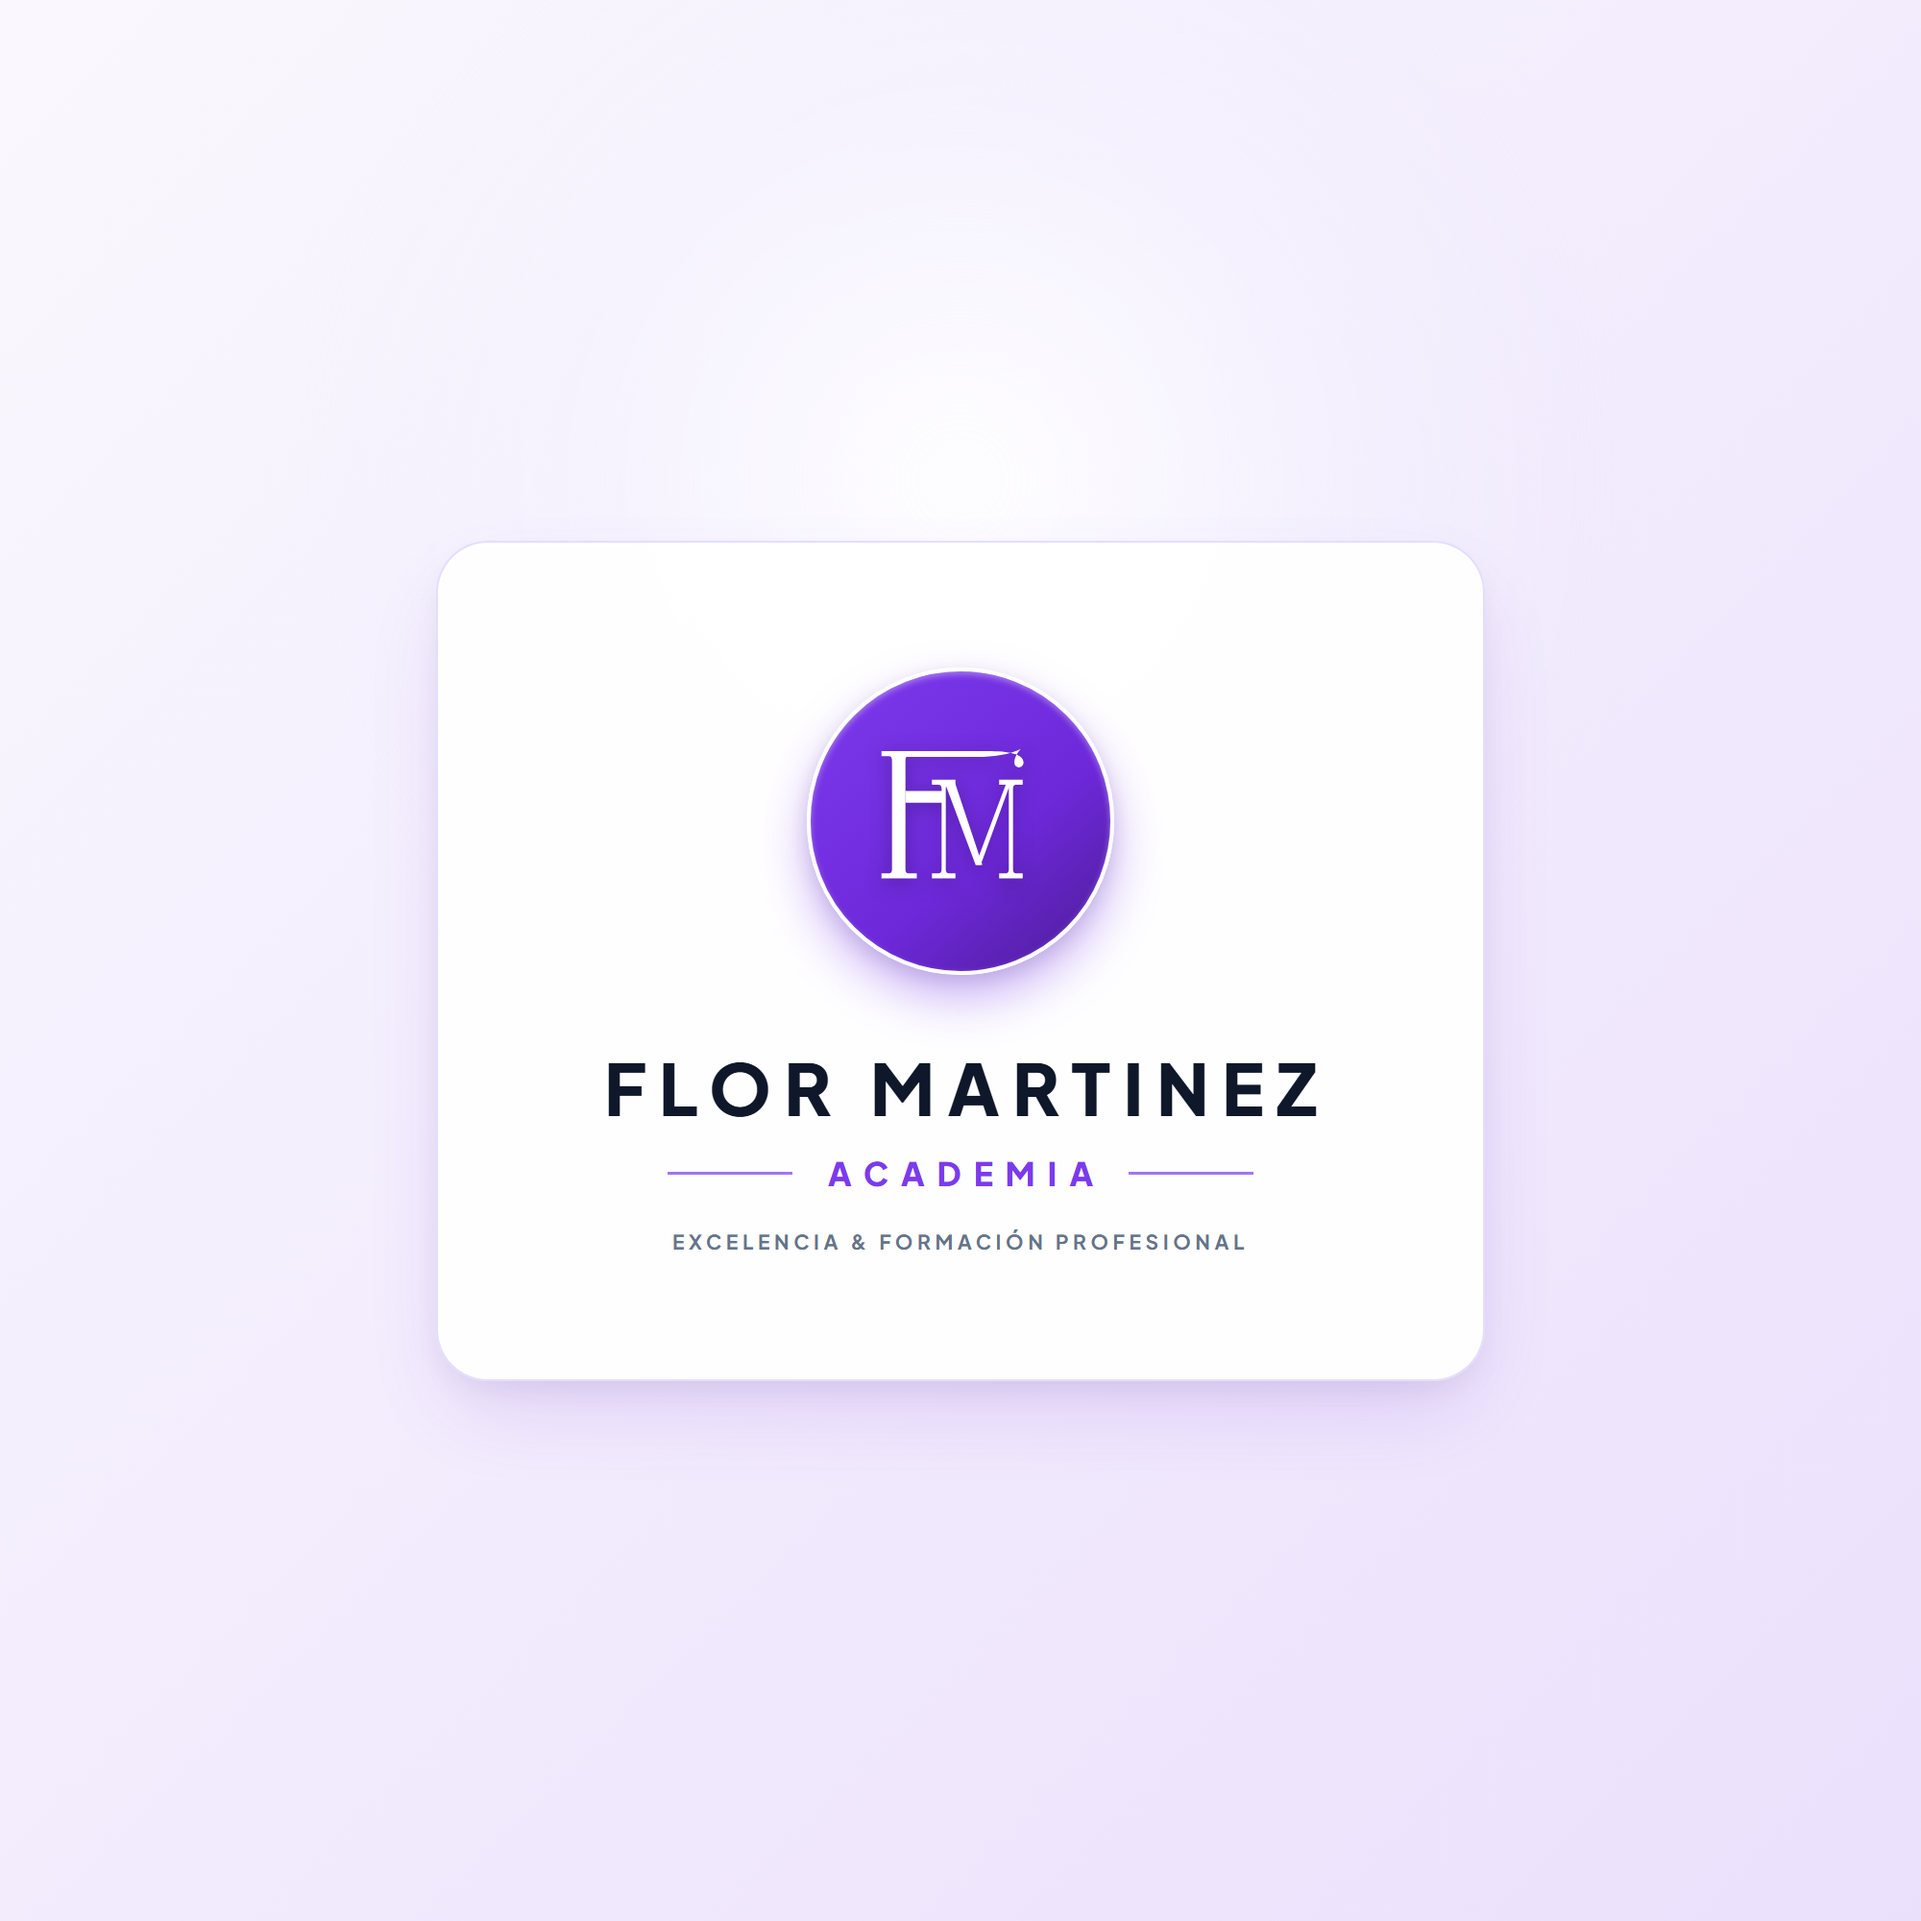
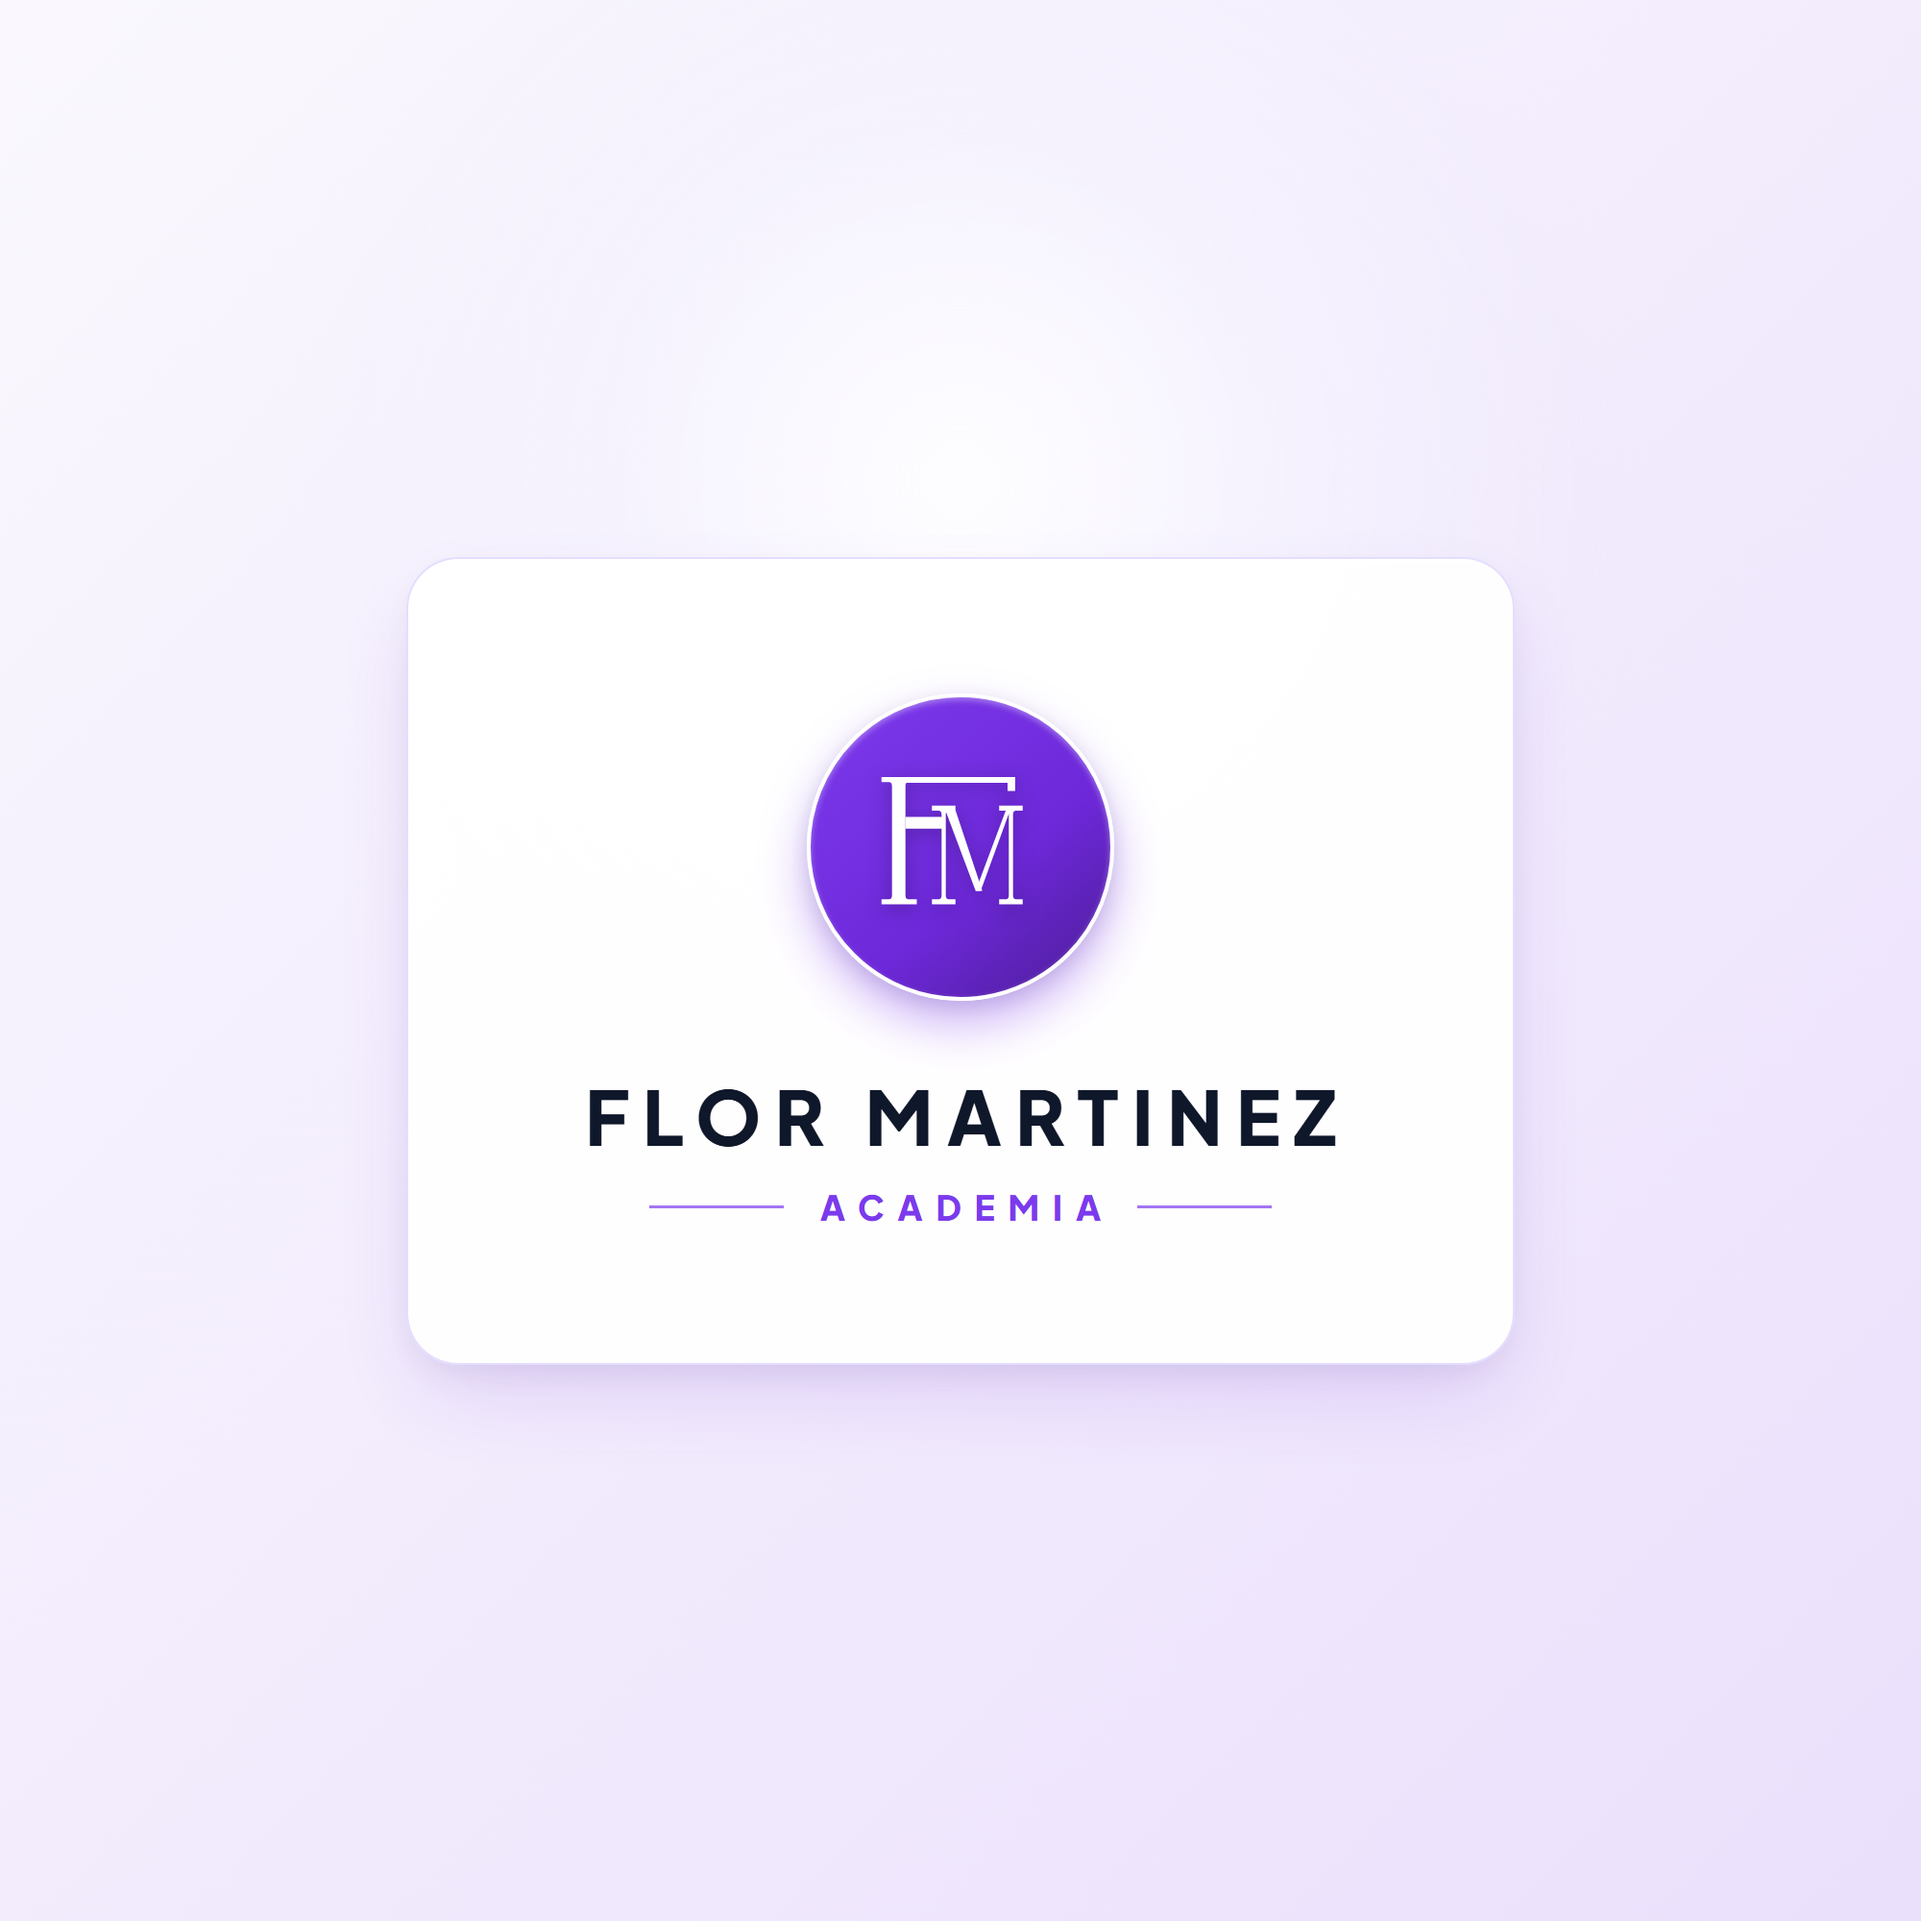
feat(campus): consolidate Module 02 Lesson 02 (ATS Filters) with approved scripts and resources

Changed region(s): [[0.31, 0.341, 0.713, 0.651], [0.217, 0.31, 0.806, 0.744]]

diff --git a/apps/academy/src/data/campus.ts b/apps/academy/src/data/campus.ts
@@ -517,6 +517,7 @@ const expBusquedaLaboralModules: CampusModule[] = [
         type: 'video',
         title: 'Cómo funcionan los filtros ATS',
         duration: '7 min',
+        videoDuration: '3:50 min',
         completed: false,
         description:
           'Cómo procesan el texto los softwares ATS, qué elementos rompen la lectura automática y cómo garantizar 100% de compatibilidad.',
@@ -524,23 +525,67 @@ const expBusquedaLaboralModules: CampusModule[] = [
           'Los ATS (Workday, Taleo, Greenhouse, Lever) extraen texto plano y ordenan candidatos según coincidencia de palabras clave.',
           'Mito: "El robot descarta automáticamente". Realidad: El sistema clasifica por relevancia y el selector humano revisa la lista ordenada.',
           'Elementos que dañan la lectura: tablas de doble columna complejas, cuadros de texto flotantes, íconos incrustados como imágenes.',
+          'Regla de oro: Maquetación en 1 sola columna vertical con encabezados estándar y exportación en PDF con texto seleccionable.',
         ],
+        actionItems: [
+          {
+            id: 'act-cv-2-1',
+            title: 'Auditar tu CV con el Checklist ATS',
+            description: 'Accedé a los Documentos de esta clase para verificar que tu archivo cumpla las pautas técnicas de lectura.',
+          },
+          {
+            id: 'act-cv-2-2',
+            title: 'Realizar la prueba de texto plano',
+            description: 'Copiá y pegá el contenido de tu PDF en un bloc de notas para confirmar que se lea en orden sin caracteres rotos.',
+          },
+        ],
+        mindsetPrompt:
+          'Un ATS no es un enemigo con IA que te descarta: es un lector de texto plano que premia la claridad, el orden y las palabras clave.',
         resources: [
           {
-            id: 'res-cv-03',
-            title: 'Checklist de Compatibilidad ATS (PDF)',
+            id: 'checklist-optimizacion-cv-ats',
+            title: 'Checklist de Compatibilidad ATS (25 Puntos)',
             type: 'pdf',
-            fileSize: '320 KB',
+            fileSize: 'Guía In-App',
             url: '#',
             programId: 'exp-busqueda-laboral',
             programTitle: 'Experiencia Búsqueda Laboral',
             moduleNumber: 2,
-            category: 'Guía PDF',
-            description: 'Lista de verificación para comprobar que tu documento no contenga elementos que bloqueen el parseo.',
+            category: 'Checklist Técnico',
+            description: 'Lista de verificación interactiva para comprobar que tu documento no contenga elementos que bloqueen el parseo.',
+            isEssential: true,
           },
         ],
         videoScript:
-          `[0:00 - Introducción]\n¿Escuchaste hablar del famoso 'robot que descarta CVs'? Hoy vamos a separar la realidad de los mitos de internet para que tu CV nunca quede atrapado en el limbo digital.\n\n[1:15 - Desarrollo del concepto]\nLas grandes empresas usan software ATS porque reciben miles de postulaciones. El sistema convierte tu PDF a texto plano y busca coincidencias con la descripción del puesto. Si diseñaste tu CV en Canva con tablas dobles, íconos de barritas para decir 'inglés 80%' o texto incrustado como imagen, el sistema no puede leerlo y te asigna un puntaje de cero. En esta clase te enseño cómo maquetar con una sola columna limpia que los ATS leen a la perfección y que a los humanos les encanta mirar.\n\n[5:45 - Llamada a la acción]\nRevisá tu CV actual con el checklist que te dejo en los recursos: si tiene tablas complejas o gráficos, es momento de limpiarlo.`,
+          `[0:00 - SECCIÓN 1: INTRODUCCIÓN Y ENGANCHE]
+🗣 ¿Escuchaste hablar del famoso 'robot que descarta CVs'? En internet hay mucho mito sobre los sistemas ATS, pero la realidad es mucho más simple: un ATS no es una inteligencia artificial que decide si servís o no; es una base de datos que convierte tu documento a texto plano y lo indexa según palabras clave. Vamos a ver exactamente cómo lee tu currículum para garantizar que nunca quede invisible en el sistema.
+🏷 Mito vs. Realidad: ¿Cómo funciona un ATS? 🤖📄
+🔊 Swoosh suave
+🏷 ATS = Base de datos de indexación por palabras clave 🔍
+🔊 Pop sutil
+🏷 Objetivo: 100% de compatibilidad y visibilidad 🎯
+🔊 Pop de confirmación
+
+[1:15 - SECCIÓN 2: DESARROLLO CONCEPTUAL — POR QUÉ FALLA EL PARSEO Y CÓMO DISEÑAR EN 1 COLUMNA]
+🗣 Para entender por qué falla un CV, imaginate qué pasa cuando el sistema extrae el contenido: lee en línea recta horizontal. Si tenés un diseño de doble columna con cajas flotantes, el texto de la barra lateral se mezcla con tu experiencia laboral y genera un bloque incomprensible.
+🏷 Lectura horizontal: De izquierda a derecha 📄➡🔡
+🔊 Swoosh suave
+🖼 Captura flotante mostrando la comparación de un CV visual de 2 columnas vs. el texto plano roto resultante.
+🗣 Lo mismo pasa cuando reemplazás palabras por gráficos, como barritas de nivel de idioma o íconos decorativos: para el sistema simplemente no existen.
+🏷 Errores fatales: Barritas de nivel & Cajas flotantes ⚠
+🔊 Pop sutil
+🗣 La solución es directa: maquetar en una sola columna vertical, usar encabezados estándar como 'Experiencia', 'Educación' y 'Habilidades', y verificar que todo tu texto sea seleccionable antes de exportar en PDF. Así garantizás que el sistema indexe cada dato en el casillero correcto.
+🏷 Estructura segura: 1 Columna + Encabezados Estándar 🛡
+🔊 Pop de confirmación
+
+[5:45 - SECCIÓN 3: CIERRE Y LLAMADA A LA ACCIÓN]
+🗣 Andá a la sección de Documentos de esta clase y pasá tu CV por el Checklist de Compatibilidad ATS: si encontrás tablas dobles, barritas o cajas flotantes, es momento de limpiarlo y pasar tu información a la plantilla de una columna.
+🏷 Documentos: Checklist de Compatibilidad ATS 📥📋
+🔊 Pop sutil
+🖼 Captura flotante del Checklist interactivo in-app.
+🗣 Una vez que el formato esté asegurado, en la siguiente clase te voy a enseñar cómo mapear e incorporar las palabras clave exactas de cada vacante para que tu perfil destaque en las búsquedas.
+🏷 Próxima clase: Palabras clave y adaptación del CV 🎯📄
+🔊 Fin de lección suave`,
       },
       {
         id: 'exp-cv-03',

diff --git a/apps/academy/src/components/ui/BrandLogo.tsx b/apps/academy/src/components/ui/BrandLogo.tsx
@@ -38,8 +38,8 @@ export function FMMonogramSvg({
       {/* Letter F Vertical Stem & Foot/Head Serifs */}
       <path d="M 32 184 L 62 184 L 62 178 L 53 178 C 49.5 178 48.5 176.5 48.5 172.5 L 48.5 48 C 48.5 44 49.5 42.5 53 42.5 L 62 42.5 L 62 36.5 L 22 36.5 L 22 42.5 L 30 42.5 C 33.5 42.5 34.5 44 34.5 48 L 34.5 172.5 C 34.5 176.5 33.5 178 30 178 L 22 178 L 22 184 Z" />
       
-      {/* Letter F Extended Top Arm Sheltering M with graceful upward terminal curve */}
-      <path d="M 48.5 42.5 L 140 42.5 C 160 42.5 178 39.5 192 33 C 187 37.5 182 47.5 185 52.5 C 188 57 195 55 195 49 C 195 39 178 35.5 152 35.5 L 48.5 35.5 Z" />
+      {/* Letter F Extended Top Arm with Clean Classic Serif Terminal */}
+      <path d="M 48.5 42.5 L 176 42.5 L 176 52 L 185 52 L 185 35.5 L 48.5 35.5 Z" />
       
       {/* Letter F Middle Crossbar */}
       <path d="M 48.5 98 L 94 98 L 98 91 L 94 84 L 48.5 84 Z" />

diff --git a/apps/flor-martinez/src/components/ui/BrandLogo.tsx b/apps/flor-martinez/src/components/ui/BrandLogo.tsx
@@ -38,8 +38,8 @@ export function FMMonogramSvg({
       {/* Letter F Vertical Stem & Foot/Head Serifs */}
       <path d="M 32 184 L 62 184 L 62 178 L 53 178 C 49.5 178 48.5 176.5 48.5 172.5 L 48.5 48 C 48.5 44 49.5 42.5 53 42.5 L 62 42.5 L 62 36.5 L 22 36.5 L 22 42.5 L 30 42.5 C 33.5 42.5 34.5 44 34.5 48 L 34.5 172.5 C 34.5 176.5 33.5 178 30 178 L 22 178 L 22 184 Z" />
       
-      {/* Letter F Extended Top Arm Sheltering M with graceful upward terminal curve */}
-      <path d="M 48.5 42.5 L 140 42.5 C 160 42.5 178 39.5 192 33 C 187 37.5 182 47.5 185 52.5 C 188 57 195 55 195 49 C 195 39 178 35.5 152 35.5 L 48.5 35.5 Z" />
+      {/* Letter F Extended Top Arm with Clean Classic Serif Terminal */}
+      <path d="M 48.5 42.5 L 176 42.5 L 176 52 L 185 52 L 185 35.5 L 48.5 35.5 Z" />
       
       {/* Letter F Middle Crossbar */}
       <path d="M 48.5 98 L 94 98 L 98 91 L 94 84 L 48.5 84 Z" />
